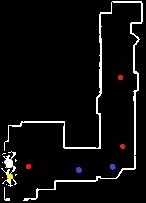
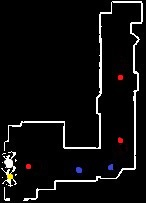
v6.3 更新更新程序，速通模式支持黄泉

diff --git a/utils/utils.py b/utils/utils.py
@@ -96,6 +96,7 @@ class UniverseUtils:
         self.slow = 0
         self.init_ang = 0
         self.allow_e = 1
+        self.quan = 0
         self.img_map = dict()
         # 用户选择的命途
         for i in range(len(config.fates)):
@@ -448,7 +449,7 @@ class UniverseUtils:
             dx = self.get_end_point()
             off = 0
             if dx is None:
-                for k in [60, -30, -60, -30, -40, -40, -40, -40, -40]:
+                for k in [60,120,60,60,30,-60,-60,-60,-60]:
                     if self.ang_neg:
                         self.mouse_move(k)
                         off -= k
@@ -551,6 +552,8 @@ class UniverseUtils:
         shape = (int(self.scx * 190), int(self.scx * 190))
         if gs:
             self.get_screen()
+            if self.check("choose_bless", 0.9266, 0.9491):
+                return None
         if local_screen is None:
             local_screen = self.get_local(0.9333, 0.8657, shape)
         bw_map = np.zeros(local_screen.shape[:2], dtype=np.uint8)
@@ -815,6 +818,11 @@ class UniverseUtils:
             self.get_map()
         # 寻路模式
         else:
+            if self.now_map == '19787':
+                self.press('w',0.3)
+                self.get_screen()
+                local_screen = self.get_local(0.9333, 0.8657, shape)
+                self.now_map = '19788'
             self.ang = 360 - self.get_now_direc(local_screen) - 90
             self.get_real_loc()
             loc, type = self.get_tar()
@@ -830,9 +838,6 @@ class UniverseUtils:
                 sub += 360
             while sub > 180:
                 sub -= 360
-            self.mouse_move(sub)
-            self.ang = ang
-            ps = [13,9,11,7]
             # 如果当前就在交互点上：直接返回
             if self.goodf() and not self.ts.sim("黑塔"):
                 for j in deepcopy(self.target):
@@ -840,6 +845,9 @@ class UniverseUtils:
                         self.target.remove(j)
                         log.info("removed:" + str(j))
                 return
+            self.mouse_move(sub)
+            self.ang = ang
+            ps = [13,9 + self.quan*7,11,7]
             if self._stop == 0:
                 keyops.keyDown("w")
             time.sleep(0.25)
@@ -849,6 +857,8 @@ class UniverseUtils:
                 sft = 1
             time.sleep(0.25)
             bw_map = self.get_bw_map()
+            if bw_map is None:
+                return
             self.get_loc(bw_map, rg=30, offset=self.get_offset(4))
             self.get_real_loc(1)
             # 复杂的定位、寻路过程
@@ -863,6 +873,8 @@ class UniverseUtils:
                     return
                 ctm = time.time()
                 bw_map = self.get_bw_map()
+                if bw_map is None:
+                    return
                 self.get_loc(bw_map, fbw=1, offset=self.get_offset(2+(c<=2)), rg=10+6*(c<=2))
                 self.get_real_loc(2)
                 ang = (
@@ -948,26 +960,43 @@ class UniverseUtils:
             if type == 0:
                 self.lst_tm = time.time()
             if type == 1:
-                if self._stop == 0:
-                    pyautogui.click()
-                time.sleep(1.1)
-                self.press("s")
-                if self._stop == 0:
-                    pyautogui.click()
-                time.sleep(0.8)
-                if len(self.target) <= 2:
-                    time.sleep(0.3)
+                if not self.quan:
+                    if self._stop == 0:
+                        pyautogui.click()
+                    time.sleep(1.1)
                     self.press("s")
-                    pyautogui.click()
-                    time.sleep(0.6)
-                    self.press("s", 0.5)
-                    pyautogui.click()
-                    time.sleep(0.5)
-                    self.press("w", 1.6)
-                    pyautogui.click()
+                    if self._stop == 0:
+                        pyautogui.click()
+                    time.sleep(0.8)
+                    if len(self.target) <= 2:
+                        time.sleep(0.3)
+                        self.press("s")
+                        pyautogui.click()
+                        time.sleep(0.6)
+                        self.press("s", 0.5)
+                        pyautogui.click()
+                        time.sleep(0.5)
+                        self.press("w", 1.6)
+                        pyautogui.click()
+                else:
+                    keyops.keyUp("w")
+                    for ii in range(2):
+                        self.use_e()
+                        if ii:
+                            time.sleep(0.6)
+                        self.use_e()
+                        bw_map = self.get_bw_map()
+                        if bw_map is None:
+                            continue
+                        self.get_loc(bw_map, fbw=1, offset=self.get_offset(2), rg=24)
+                        self.get_real_loc(1)
+                        self.press('w')
+                        self.bless()
             if type == 3:
                 for i in range(9):
                     self.get_screen()
+                    if self.quan and self.check("choose_bless", 0.9266, 0.9491):
+                        return
                     if self.check("f", 0.4443, 0.4417, mask="mask_f1", threshold=0.96):
                         log.info("大图识别到传送点")
                         self.press('f')
@@ -981,7 +1010,7 @@ class UniverseUtils:
                         self.press('w', 0.5)
                         time.sleep(0.2)
             # 离目标点挺近了，准备找下一个目标点
-            elif nds <= 20:
+            elif nds <= 20 or self.quan:
                 try:
                     self.target.remove((loc, type))
                     log.info("removed:" + str((loc, type)))
@@ -1364,18 +1393,14 @@ class UniverseUtils:
                     break
                 if self.check("z",0.5906,0.9537,mask="mask_z",threshold=0.95):
                     self.stop_move=1
-                    time.sleep(1.7+self.slow*1.1)
-                    if self.mini_state==1 and self.floor in [3, 7, 12]:
+                    time.sleep(1.7+self.slow*1.1-(self.quan and self.floor not in [3, 7, 12])*0.5)
+                    if self.mini_state==1 and self.floor in [3, 7, 12] and not self.quan:
                         keyops.keyUp("w")
                         if not self.check("ruan",0.0625,0.7065,threshold=0.95) and not self.check("U", 0.0240,0.7759):
                             for i in range([3, 7, 12].index(self.floor)+2):
                                 self.press(str(i+1))
                                 time.sleep(0.4)
-                                self.press('e')
-                                time.sleep(1.5)
-                                self.get_screen()
-                                if self.check('e',0.4995,0.7500):
-                                    self.solve_snack()
+                                self.use_e()
                                 self.get_screen()
                                 if not self.check("z",0.5906,0.9537,mask="mask_z",threshold=0.95):
                                     break
@@ -1387,8 +1412,24 @@ class UniverseUtils:
                         iters+=1
                         if iters>4:
                             break
-                        pyautogui.click()
-                        if iters == 2:
+                        if self.quan:
+                            keyops.keyUp("w")
+                            self.use_e()
+                            if self.floor not in [3, 7, 12]:
+                                for _ in range(3):
+                                    self.use_e()
+                                self.stop_move=1
+                                self.mini_state+=2
+                                time.sleep(0.4)
+                                self.press('w')
+                                time.sleep(1.4)
+                                return
+                            else:
+                                time.sleep(0.8)
+                                keyops.keyDown("w")
+                        else:
+                            pyautogui.click()
+                        if iters + self.quan == 2:
                             time.sleep(0.9)
                             self.press('d',0.85)
                             self.press('a',0.3)
@@ -1442,6 +1483,88 @@ class UniverseUtils:
         else:
             self.allow_e = 0
         self.press('esc')
-        time.sleep(1)
-        if f:
+        if not self.quan:
+            time.sleep(1)
             self.press('e')
+        else:
+            for _ in range(2):
+                self.press('e')
+                time.sleep(0.2)
+    
+    def use_e(self):
+        self.press('e')
+        time.sleep(0.4)
+        if not self.quan:
+            time.sleep(0.8)
+        self.get_screen()
+        if self.check('e',0.4995,0.7500):
+            self.solve_snack()
+
+    def bless(self):
+        self.get_screen()
+        if self.wait_fig(lambda:not self.check("choose_bless", 0.9266, 0.9491), 2.3):
+            self.wait_fig(lambda:not self.check("reset",0.2938,0.0954), 0.7)
+            time.sleep(1.2)
+        else:
+            return
+        for _ in range(6):
+            chose = 0
+            self.battle = 0
+            self.get_screen()
+            if self.check("reset",0.2938,0.0954, threshold=0.96):
+                for _ in range(14):
+                    self.get_screen()
+                    img_down = self.check("z", 0.5042, 0.3204, mask="mask", large=False)
+                    if (
+                        self.ts.split_and_find(self.tk.fates, img_down, mode="bless")[1]
+                        or self._stop
+                    ):
+                        time.sleep(0.2)
+                        break
+                    if not self.check("choose_bless", 0.9266, 0.9491, threshold=0.945):
+                        return 1
+                    time.sleep(0.2)
+                self.get_screen()
+                img_up = self.check("z", 0.5047, 0.5491, mask="mask_bless", large=False)
+                res_up = self.ts.split_and_find(self.tk.prior_bless, img_up, bless_skip=self.tk.skip)
+                img_down = self.check("z", 0.5042, 0.3204, mask="mask", large=False)
+                res_down = self.ts.split_and_find([self.fate], img_down, mode="bless")
+                if res_up[1] == 2:
+                    self.click(self.calc_point((0.5047, 0.5491), res_up[0]))
+                    chose = 1
+                elif res_down[1] == 2:
+                    self.click(self.calc_point((0.5042, 0.3204), res_down[0]))
+                    chose = 1
+                if not chose:
+                    self.click((0.2990, 0.1046))
+                    time.sleep(1.2)
+            # 未匹配到优先祝福，刷新祝福并再次匹配
+            if not chose:
+                for _ in range(8):
+                    self.get_screen()
+                    img_down = self.check("z", 0.5042, 0.3204, mask="mask", large=False)
+                    if self.ts.split_and_find(self.tk.fates, img_down)[1] or self._stop:
+                        time.sleep(0.2)
+                        break
+                    if not self.check("choose_bless", 0.9266, 0.9491, threshold=0.945):
+                        return 1
+                    time.sleep(0.2)
+                self.get_screen()
+                img_up = self.check("z", 0.5047, 0.5491, mask="mask_bless", large=False)
+                res_up = self.ts.split_and_find(self.tk.prior_bless, img_up,bless_skip=self.tk.skip)
+                img_down = self.check("z", 0.5042, 0.3204, mask="mask", large=False)
+                res_down = self.ts.split_and_find(
+                    self.tk.secondary, img_down, mode="bless"
+                )
+                if res_up[1] == 2:
+                    self.click(self.calc_point((0.5047, 0.5491), res_up[0]))
+                elif res_down[1] >= 2:
+                    self.click(self.calc_point((0.5042, 0.3204), res_down[0]))
+                else:
+                    self.click(self.calc_point((0.5047, 0.5491), res_up[0]))
+                time.sleep(0.5)
+            self.click((0.1203, 0.1093))
+            time.sleep(1.7)
+            self.get_screen()
+            if not self.check("choose_bless", 0.9266, 0.9491, threshold=0.945):
+                return

diff --git a/states.py b/states.py
@@ -51,7 +51,7 @@ class SimulatedUniverse(UniverseUtils):
                 try:
                     lowest = requests.get(
                         "https://chnzyx.github.io/asu_version_check/"
-                    ).text.strip()
+                    ).text.strip().split('\n')[0]
                     log.info("版本下限：v" + lowest)
                 except:
                     log.info("网络异常")#，强制退出")
@@ -96,6 +96,7 @@ class SimulatedUniverse(UniverseUtils):
         self.fail_count = 0
         self.nums = nums
         self.end = 0
+        self.quan = 0
         ex_notif = ""
         if debug != 2:
             pyautogui.FAILSAFE = False
@@ -171,7 +172,7 @@ class SimulatedUniverse(UniverseUtils):
             if self._stop:
                 break
             self.get_screen()
-            #self.click_target('imgs/lack.jpg',0.9,True) # 如果需要输出某张图片在游戏窗口中的坐标，可以用这个
+            #self.click_target('imgs/huangquan.jpg',0.9,True) # 如果需要输出某张图片在游戏窗口中的坐标，可以用这个
             """
             if begin and not self.check("f", 0.4437,0.4231) and not self.check("abyss/1",0.8568,0.6769):
                 begin = 0
@@ -322,12 +323,15 @@ class SimulatedUniverse(UniverseUtils):
                     self.click(self.calc_point((0.5042, 0.3204), res_down[0]))
                 else:
                     self.click(self.calc_point((0.5047, 0.5491), res_up[0]))
+                time.sleep(0.4)
             self.click((0.1203, 0.1093))
             tm=time.time()
             while time.time()-tm<1.6 and self.check("choose_bless", 0.9266, 0.9491):
                 time.sleep(0.1)
                 self.get_screen()
             self.confirm_time = time.time()
+            if self.quan:
+                self.use_e()
             return 1
         # F交互界面
         elif self.check("f", 0.4443, 0.4417, mask="mask_f1", threshold=0.96):
@@ -375,6 +379,8 @@ class SimulatedUniverse(UniverseUtils):
                     return 1
         # 跑图状态
         if self.isrun():
+            if self.speed and not self.quan and self.check("huangquan", 0.0578,0.7083):
+                self.quan = 1
             if self.floor_init == 0:
                 self.get_level()
                 self.floor_init = 1
